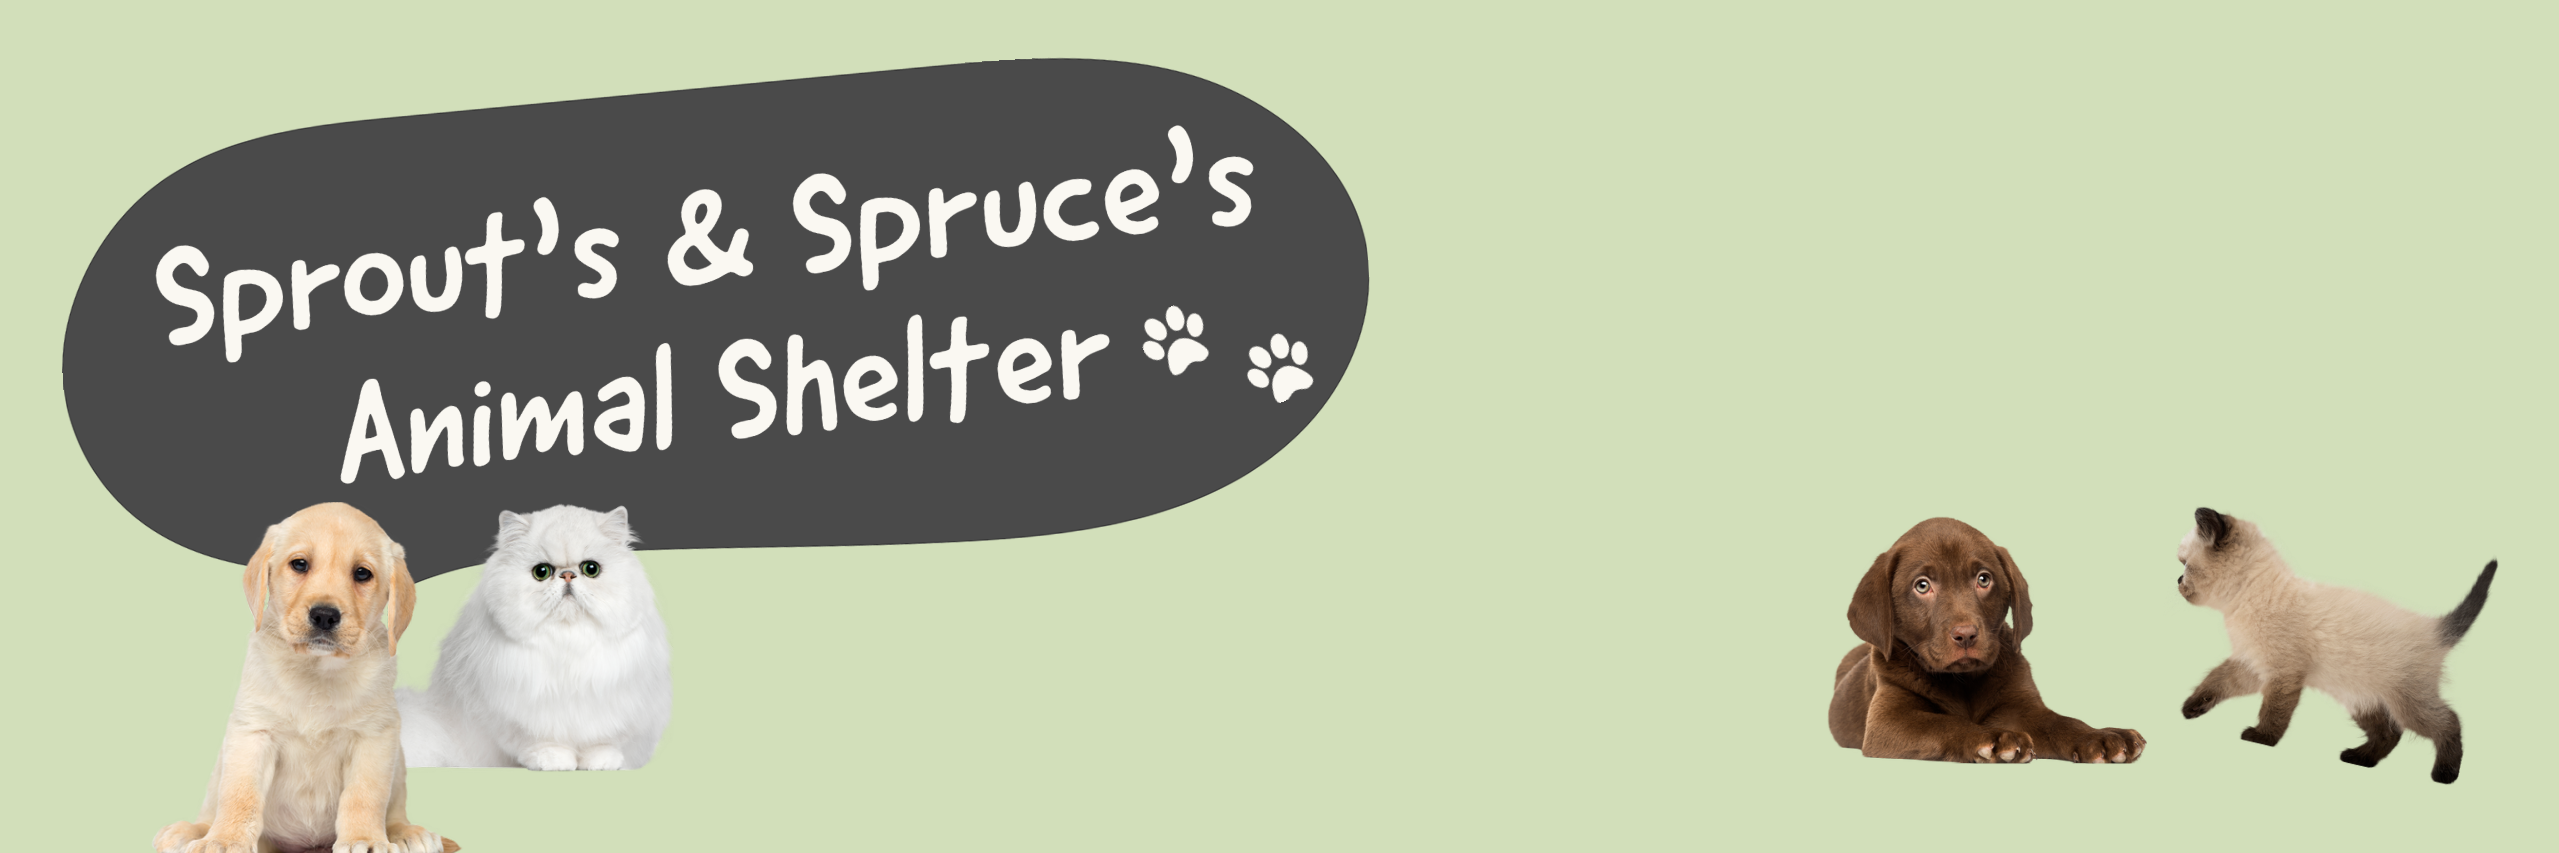
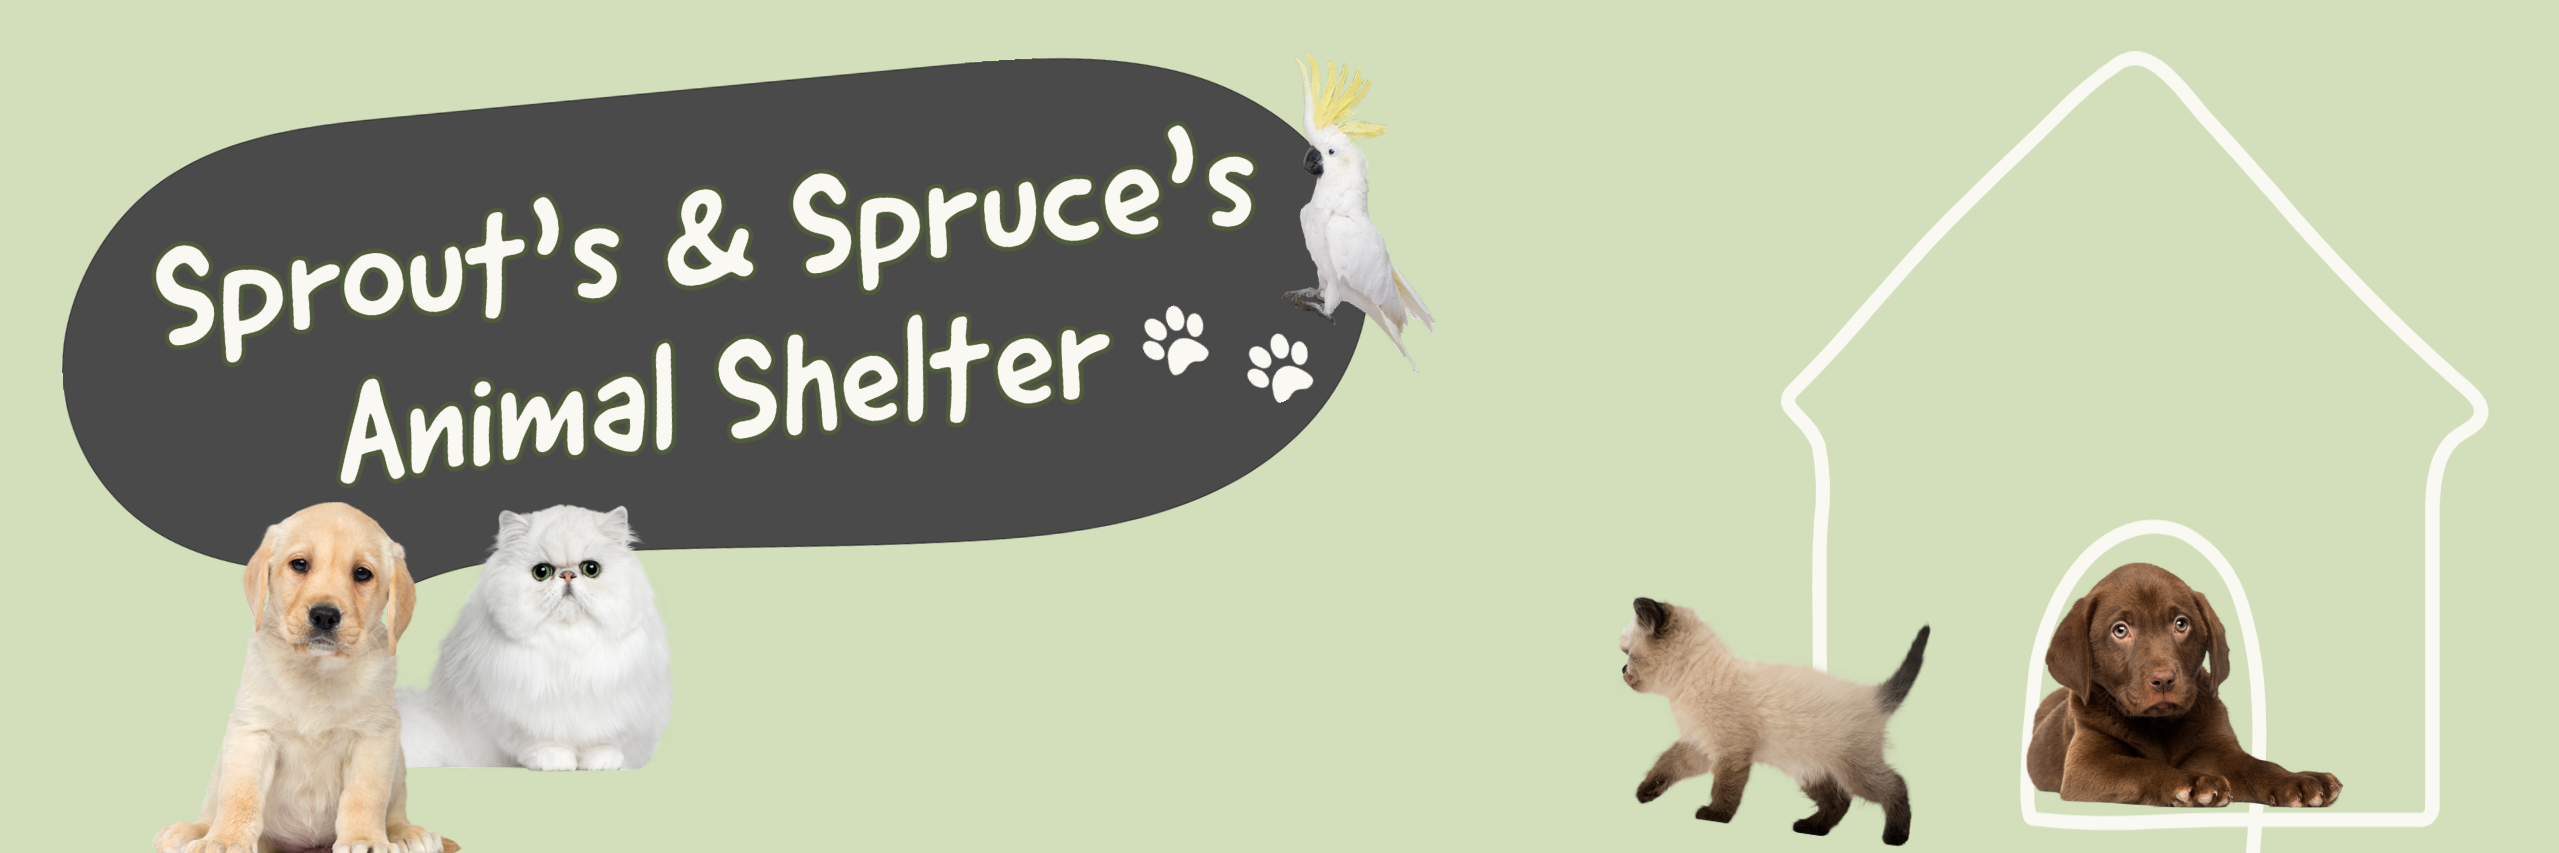
Added AboutUs/Home Components and Inquiry Form

diff --git a/src/Components/Adopters.js b/src/Components/Adopters.js
@@ -1,9 +1,31 @@
 import React from 'react'
+import { useForm } from 'react-hook-form';
 
 function Adopters() {
+
+    const { register, handleSubmit, formState: { errors } } = useForm();
+    const onSubmit = data => console.log(data);
+    console.log(errors);
+    
+
     return (
-        <div>Adopters</div>
-    )
+        <div>
+            <h2>
+                Interested in Adopting? Fill out the below Application Form! 
+            </h2>
+            <h4>
+            The first step in the adoption process is to fill out the below inquiry form. Inquiry forms are processed on a first come/ best-fit basis and generally take 48-72 business hours to approve. We will contact you if any additional information is needed!
+            </h4>
+            <form onSubmit={handleSubmit(onSubmit)}>
+                <input type="text" placeholder="Name" {...register("Name", {required: true, maxLength: 80})} />
+                <input type="text" placeholder="Email" {...register("Email", {required: true, pattern: /^\S+@\S+$/i})} />
+                <input type="tel" placeholder="Phone Number" {...register("Phone Number", {required: true, maxLength: 12})} />
+                <input type="text" placeholder="Interested Pet" {...register("Interested Pet", {})} />
+
+                <input type="submit" />
+            </form>
+        </div>
+    );
 }
 
 export default Adopters

diff --git a/src/App.css b/src/App.css
@@ -3,11 +3,9 @@
   margin:0;
 } */
 
-
 .App {
   text-align: center;
 }
-
 .App-header {
   background-color: #D2DFBA;
   height: 350px;
@@ -22,16 +20,24 @@
   /* margin-left: -890px; */
   height: 300px;
 }
-
 .App-link {
   color: #61dafb;
 }
-
+.welcome-image {
+  height: 400px;
+  width: 1200px;
+  margin-left: -300px;
+}
 .welcomePage {
   display: block;
   margin-left: auto;
   margin-right: auto;
   width: 100%;
+}
+.about-image {
+  height: 400px;
+  width: 1200px;
+  margin-left: -300px;
 }
 .card {
   font-family: 'Avenir', cursive;
@@ -59,11 +65,3 @@
   justify-content: space-evenly;
 }
 
-@keyframes App-logo-spin {
-  from {
-    transform: rotate(0deg);
-  }
-  to {
-    transform: rotate(360deg);
-  }
-}

diff --git a/src/Components/Home.js b/src/Components/Home.js
@@ -2,8 +2,8 @@ import React from 'react'
 
 function Home() {
     return (
-        <div>
-            {/* <img className='home-page' src={require('../Images/AboutUs.png')} alt="Home-Page"/> */}
+        <div className='welcome'>
+            <img className='welcome-image' src={require('../Images/MissionStatement.png')} alt="Welcome!" />
         </div>
     )
 }

diff --git a/src/Components/AboutUs.js b/src/Components/AboutUs.js
@@ -2,7 +2,9 @@ import React from 'react'
 
 function AboutUs() {
   return (
-    <div>AboutUs</div>
+    <div className='about-us'>
+      <img className='about-image' src={require('../Images/AboutUsBanner.png')} alt="About Us" />
+    </div>
   )
 }
 

diff --git a/src/App.js b/src/App.js
@@ -29,7 +29,6 @@ function App() {
         </h2>
       </header>
       <NavBar animals={animals} />
-      {/* <AnimalContainer animals={animals}/> */}
     </div>
   );
 }
